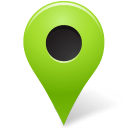
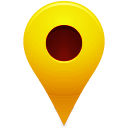
2024/09/05

diff --git a/lib/uI/main/drawer/in_out/in_out.dart b/lib/uI/main/drawer/in_out/in_out.dart
@@ -42,6 +42,7 @@ class _InOutUpdateGoogleMapState extends State<InOutUpdateGoogleMap> {
   String lat = '';
   String long = '';
   String image64 = '';
+  LatLng? fLatLong;
   // List userBranchList = [];
   String? selectval;
   List userBranchList = [];
@@ -93,15 +94,15 @@ class _InOutUpdateGoogleMapState extends State<InOutUpdateGoogleMap> {
   userLocation() async {
     BitmapDescriptor markerBitMap = await BitmapDescriptor.fromAssetImage(
       ImageConfiguration(size: Size(30, 30)),
-      "assets/m2.png",
+      "assets/1.png",
     );
     BitmapDescriptor markerBitMap2 = await BitmapDescriptor.fromAssetImage(
       ImageConfiguration(size: Size(30, 30)),
-      "assets/m3.png",
+      "assets/2.png",
     );
     BitmapDescriptor markerBitMap3 = await BitmapDescriptor.fromAssetImage(
       ImageConfiguration(size: Size(30, 30)),
-      "assets/m.png",
+      "assets/3.png",
     );
     DateTime now = DateTime.now();
     String formattedDate = DateFormat('yyyy-MM-dd').format(now);
@@ -112,7 +113,10 @@ class _InOutUpdateGoogleMapState extends State<InOutUpdateGoogleMap> {
     setState(() {
       // branchList = temp;
       todayVisitBranchList = temp2;
-      log(todayVisitBranchList.toString());
+      log(todayVisitBranchList[0]['lati']);
+      double lat = double.parse(todayVisitBranchList[0]['lati']);
+      double long = double.parse(todayVisitBranchList[0]['longt']);
+      fLatLong = LatLng(lat, long);
     });
     setState(() {
       List.generate(todayVisitBranchList.length, (index) async {
@@ -155,7 +159,7 @@ class _InOutUpdateGoogleMapState extends State<InOutUpdateGoogleMap> {
           Polyline(
             polylineId: PolylineId(todayVisitBranchList[index]['did']),
             points: _latLong,
-            color: Color.fromARGB(255, 186, 10, 31),
+            color: Color.fromARGB(255, 238, 3, 73),
             width: 8,
             endCap: Cap.roundCap,
             geodesic: true,
@@ -257,7 +261,7 @@ class _InOutUpdateGoogleMapState extends State<InOutUpdateGoogleMap> {
               padding: EdgeInsets.only(bottom: isOpen ? 70 : 0),
               child: Stack(
                 children: [
-                  isLoading
+                  isLoading || fLatLong == null
                       ? Loader().loader(context)
                       : GoogleMap(
                           polylines: _polylines,
@@ -272,8 +276,8 @@ class _InOutUpdateGoogleMapState extends State<InOutUpdateGoogleMap> {
                           // on below line setting compass enabled.
                           // zoomControlsEnabled: false,
                           initialCameraPosition: CameraPosition(
-                            target: LatLng(7.8731, 80.7718),
-                            zoom: 8,
+                            target: fLatLong!,
+                            zoom: 9,
                           ),
                           onTap: (argument) {
                             argument.latitude;
